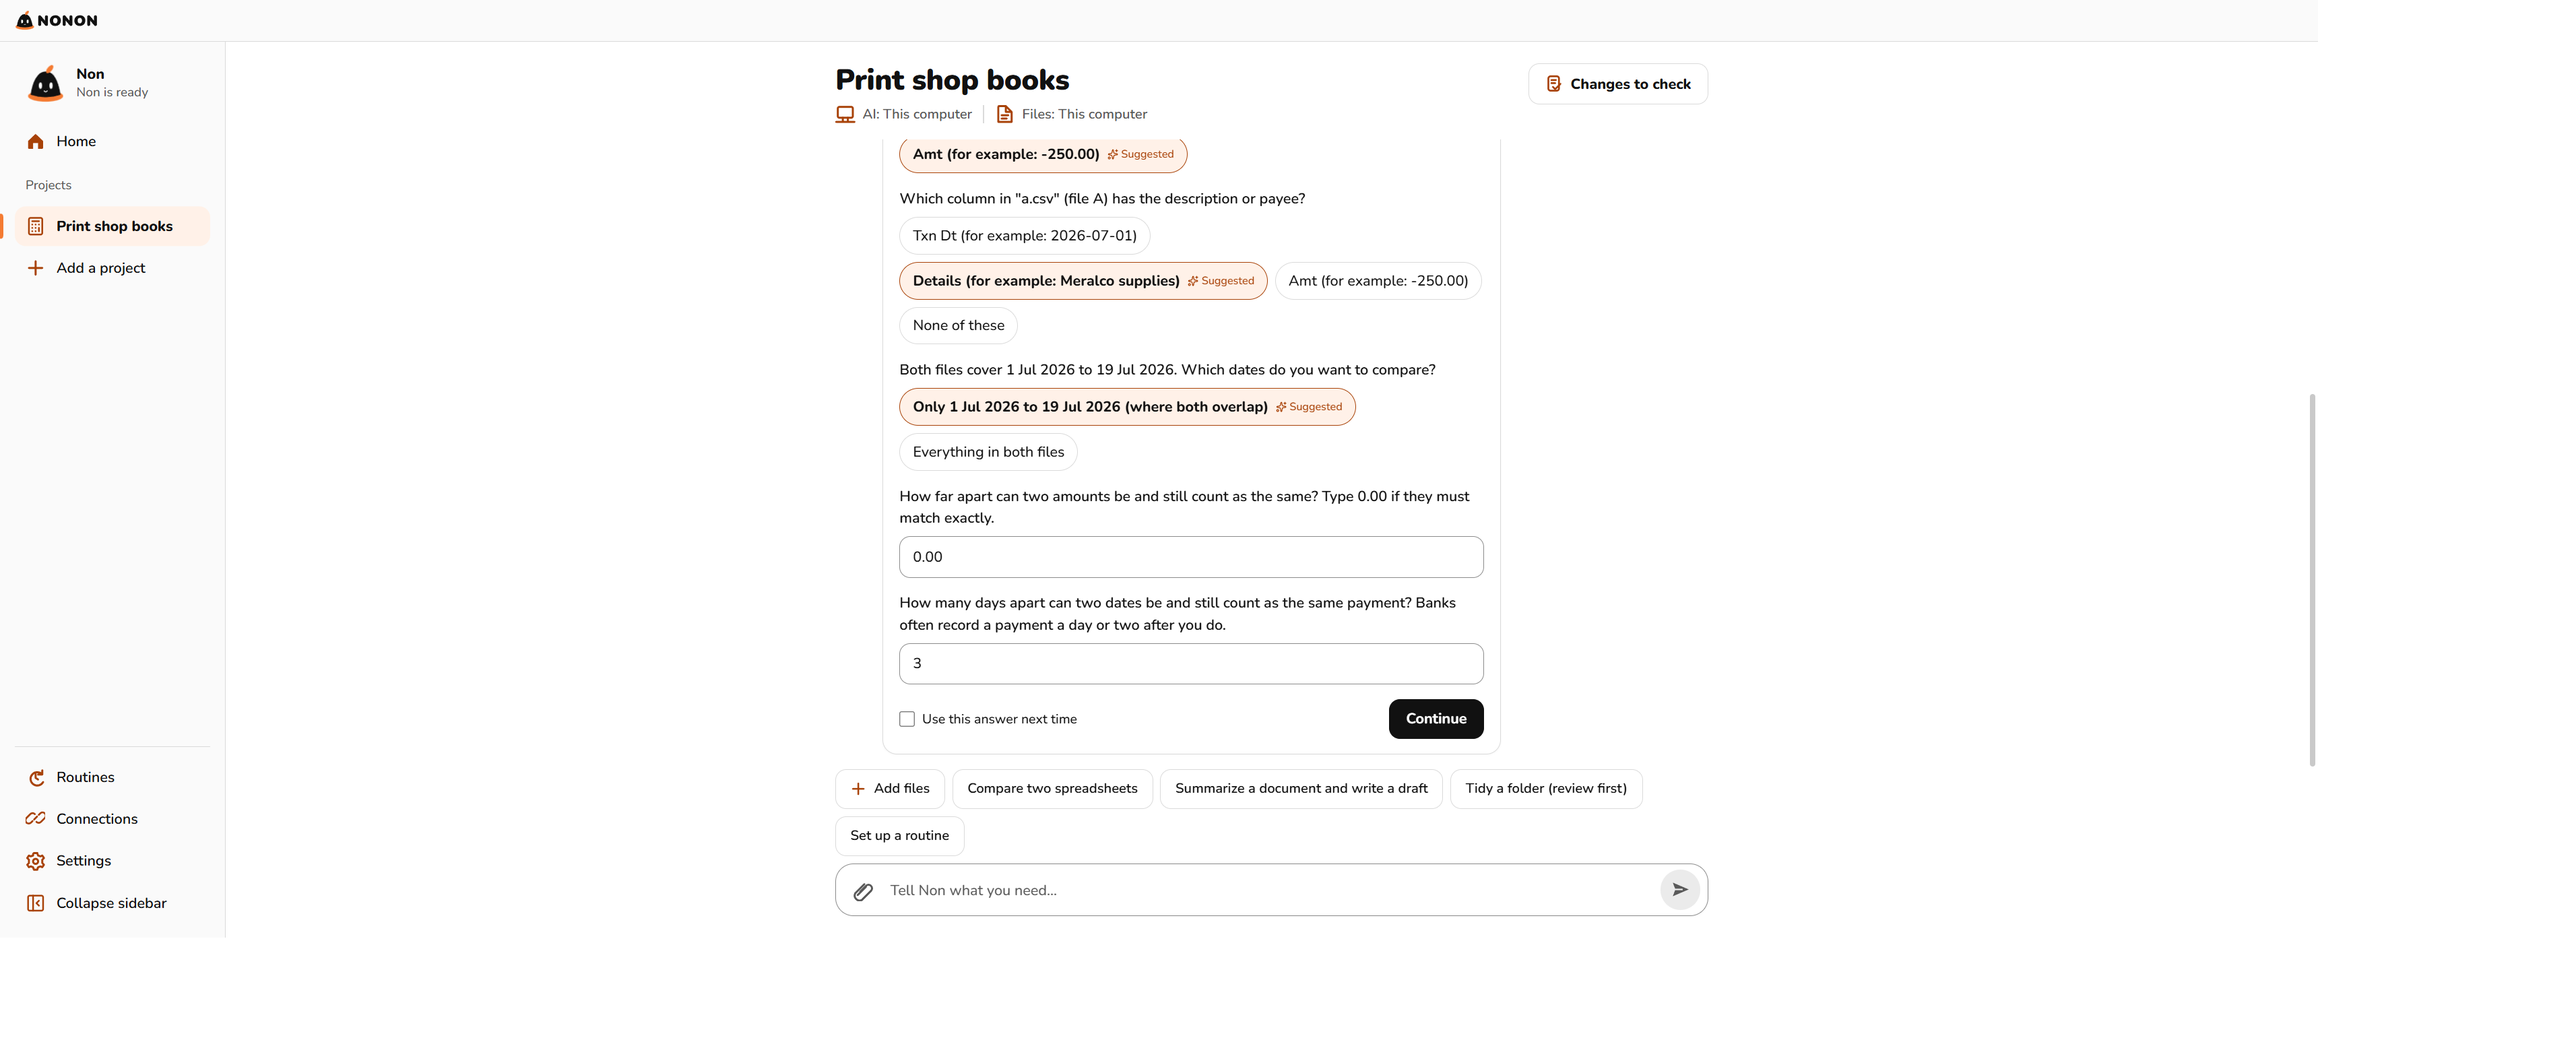
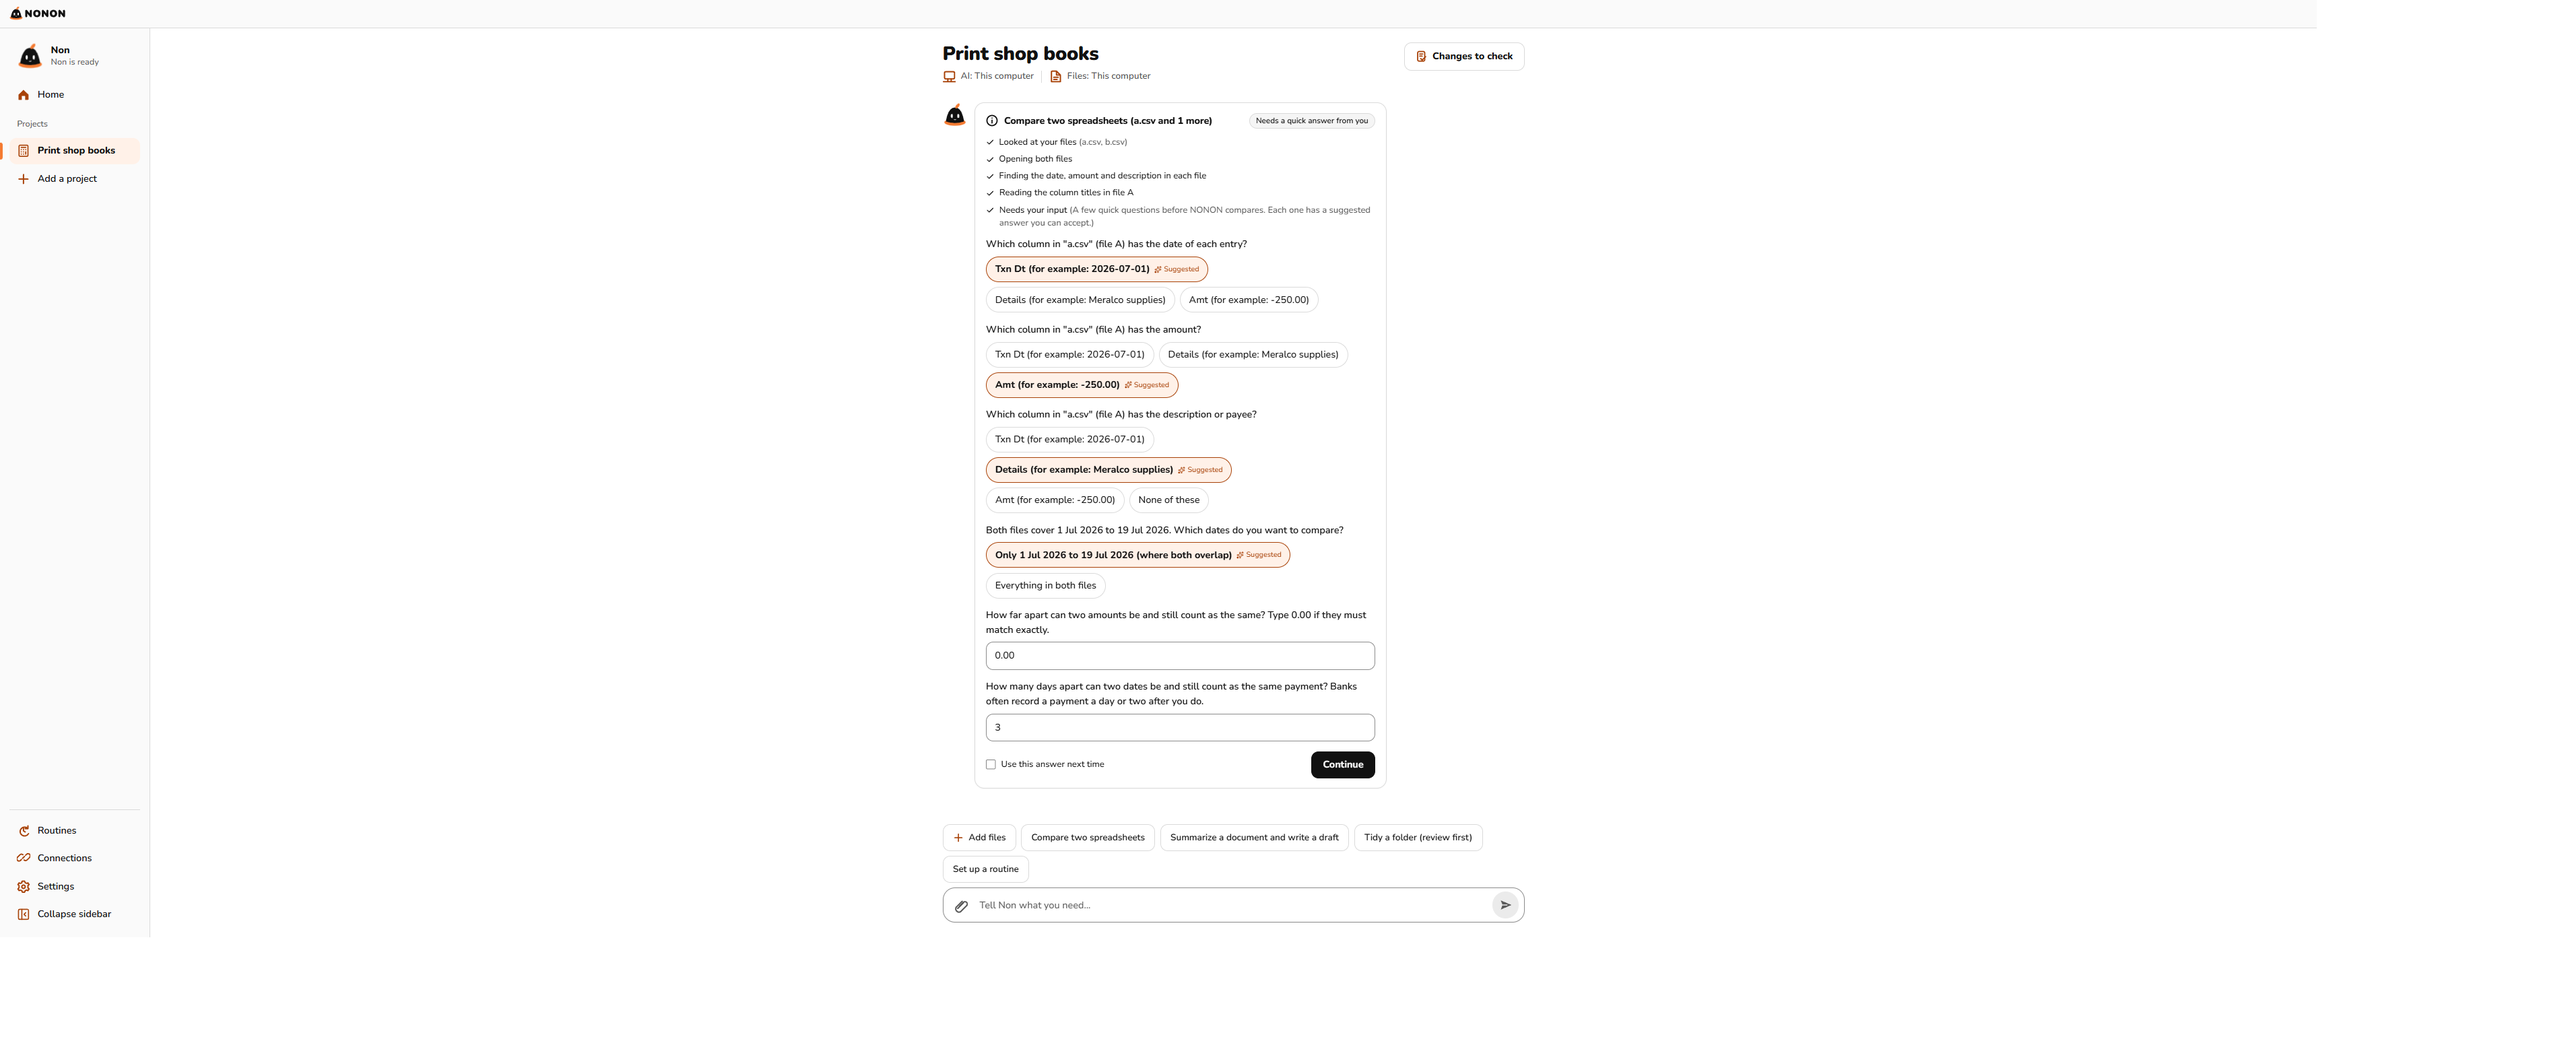
Site pages: new stylesheet cache-busting hashes (match what is deployed); margin evidence screenshots

diff --git a/site/public/licenses.html b/site/public/licenses.html
@@ -9,7 +9,7 @@
 <link rel="icon" href="/favicon-32.png" type="image/png" sizes="32x32">
 <link rel="apple-touch-icon" href="/apple-touch-icon.png">
 <link rel="preload" href="/fonts/nunito-var-latin.woff2" as="font" type="font/woff2" crossorigin>
-<link rel="stylesheet" href="/assets/base.css?v=cf2fc935b3">
+<link rel="stylesheet" href="/assets/base.css?v=8e3e08ded3">
 <script src="/assets/boot.js?v=a9b4f5c3d7"></script>
 <title>NONON licenses and credits</title>
 <meta name="description" content="NONON is Apache-2.0 and open source on GitHub. Credits and licenses for Non, Nunito, GSAP, llama.cpp, Qwen3.5, Pragma and the other software it is built with.">

diff --git a/site/public/download.html b/site/public/download.html
@@ -9,7 +9,7 @@
 <link rel="icon" href="/favicon-32.png" type="image/png" sizes="32x32">
 <link rel="apple-touch-icon" href="/apple-touch-icon.png">
 <link rel="preload" href="/fonts/nunito-var-latin.woff2" as="font" type="font/woff2" crossorigin>
-<link rel="stylesheet" href="/assets/base.css?v=cf2fc935b3">
+<link rel="stylesheet" href="/assets/base.css?v=8e3e08ded3">
 <script src="/assets/boot.js?v=a9b4f5c3d7"></script>
 <title>Download NONON for Windows and Mac</title>
 <meta name="description" content="Download NONON for Windows 10 or 11, or a Mac with Apple silicon. Free. File sizes and SHA-256 checksums are shown for every release.">

diff --git a/site/public/status.html b/site/public/status.html
@@ -9,7 +9,7 @@
 <link rel="icon" href="/favicon-32.png" type="image/png" sizes="32x32">
 <link rel="apple-touch-icon" href="/apple-touch-icon.png">
 <link rel="preload" href="/fonts/nunito-var-latin.woff2" as="font" type="font/woff2" crossorigin>
-<link rel="stylesheet" href="/assets/base.css?v=cf2fc935b3">
+<link rel="stylesheet" href="/assets/base.css?v=8e3e08ded3">
 <script src="/assets/boot.js?v=a9b4f5c3d7"></script>
 <title>What works today: NONON status</title>
 <meta name="description" content="An honest list of what NONON can do today, what has limits, and what is built but not fully tested yet. Updated as the app changes.">

diff --git a/site/public/privacy.html b/site/public/privacy.html
@@ -9,7 +9,7 @@
 <link rel="icon" href="/favicon-32.png" type="image/png" sizes="32x32">
 <link rel="apple-touch-icon" href="/apple-touch-icon.png">
 <link rel="preload" href="/fonts/nunito-var-latin.woff2" as="font" type="font/woff2" crossorigin>
-<link rel="stylesheet" href="/assets/base.css?v=cf2fc935b3">
+<link rel="stylesheet" href="/assets/base.css?v=8e3e08ded3">
 <script src="/assets/boot.js?v=a9b4f5c3d7"></script>
 <title>NONON privacy</title>
 <meta name="description" content="What this website and the NONON app do and do not collect. No cookies, no analytics, and the AI runs on your computer by default.">

diff --git a/site/public/404.html b/site/public/404.html
@@ -9,7 +9,7 @@
 <link rel="icon" href="/favicon-32.png" type="image/png" sizes="32x32">
 <link rel="apple-touch-icon" href="/apple-touch-icon.png">
 <link rel="preload" href="/fonts/nunito-var-latin.woff2" as="font" type="font/woff2" crossorigin>
-<link rel="stylesheet" href="/assets/base.css?v=cf2fc935b3">
+<link rel="stylesheet" href="/assets/base.css?v=8e3e08ded3">
 <script src="/assets/boot.js?v=a9b4f5c3d7"></script>
 <title>Page not found - NONON</title>
 <meta name="robots" content="noindex">
